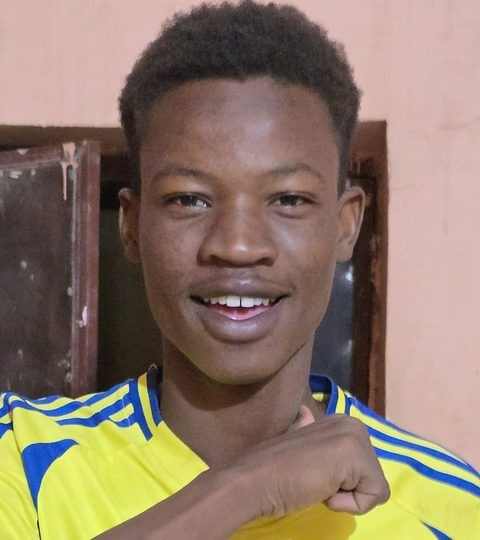
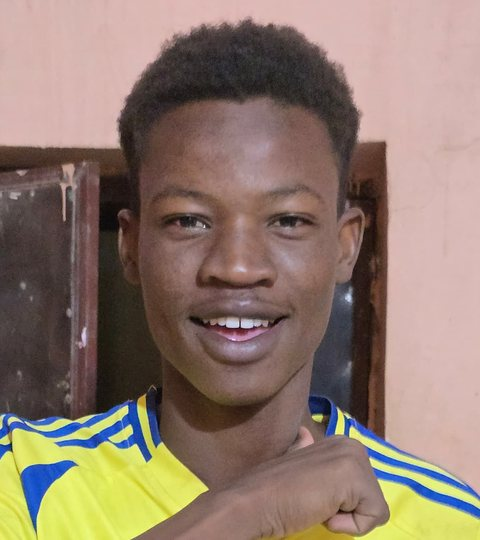
.

diff --git a/src/styles.css b/src/styles.css
@@ -369,6 +369,7 @@ td.num-hi { font-family: var(--font-display); font-size: 1.25rem; color: var(--l
 .pitch { --tc: #0e6b47; position: relative; border-radius: 16px; background: linear-gradient(rgba(2, 18, 12, 0.12), rgba(2, 18, 12, 0.3)), var(--pitch-photo) center / 100% 100% no-repeat, #0e6a3e; border: 2px solid rgba(255, 255, 255, 0.55); aspect-ratio: 396 / 577; max-width: 460px; margin-inline: auto; padding: 18px 6px; display: flex; flex-direction: column; justify-content: space-around; overflow: hidden; box-shadow: var(--shadow), inset 0 0 90px rgba(0, 0, 0, 0.45); }
 .pitch::before { content: ''; position: absolute; inset-inline: 0; top: 50%; height: 2px; background: rgba(255, 255, 255, 0.6); }
 .pitch::after { content: ''; position: absolute; top: 50%; left: 50%; width: 22%; aspect-ratio: 1; border: 2px solid rgba(255, 255, 255, 0.6); border-radius: 50%; transform: translate(-50%, -50%); }
+.pitch::before, .pitch::after { display: none; } /* الصورة فيها خط المنتصف والدائرة */
 .pbox { display: none; position: absolute; left: 25%; width: 50%; height: 15%; border: 2px solid rgba(255, 255, 255, 0.6); }
 .pbox.top { top: -2px; border-top: 0; }
 .pbox.bot { bottom: -2px; border-bottom: 0; }
@@ -398,7 +399,7 @@ td.num-hi { font-family: var(--font-display); font-size: 1.25rem; color: var(--l
 .pcard .pnum { font-family: var(--font-display); font-size: 1.9rem; line-height: 1; padding: 3px 12px 1px; border-radius: 6px; background: var(--grad-gold); color: #2a1f00; font-variant-numeric: tabular-nums; box-shadow: 0 6px 12px -6px #000; }
 .pcard .ppos { font-size: 0.72rem; font-weight: 700; padding: 1px 8px; border-radius: 5px; background: rgba(5, 11, 17, 0.6); color: var(--award-2); }
 .pcard .sil { position: absolute; z-index: 1; bottom: 17%; inset-inline-start: 10%; width: 80%; color: rgba(255, 255, 255, 0.16); }
-.pcard .pimg { position: absolute; z-index: 1; inset-inline: 0; top: 10%; width: 100%; height: 72%; object-fit: cover; object-position: top; -webkit-mask-image: linear-gradient(#000 76%, transparent); mask-image: linear-gradient(#000 76%, transparent); }
+.pcard .pimg { position: absolute; z-index: 1; inset-inline: 0; top: 0; width: 100%; height: 84%; object-fit: cover; object-position: top; -webkit-mask-image: linear-gradient(#000 76%, transparent); mask-image: linear-gradient(#000 76%, transparent); }
 .pcard .pinfo { position: absolute; z-index: 3; inset-inline: 0; bottom: 0; padding: 36px 10px 12px; text-align: center; background: linear-gradient(transparent, rgba(5, 11, 17, 0.96) 46%); }
 .pcard .pname { font-family: var(--font-display); font-size: 1.2rem; line-height: 1.25; text-shadow: 0 2px 8px #000; }
 .pcard .pstats { display: grid; grid-template-columns: 1fr 1fr; margin-top: 6px; padding-top: 6px; border-top: 1px solid rgba(255, 255, 255, 0.16); font-size: 0.7rem; color: #c3d0d8; }
